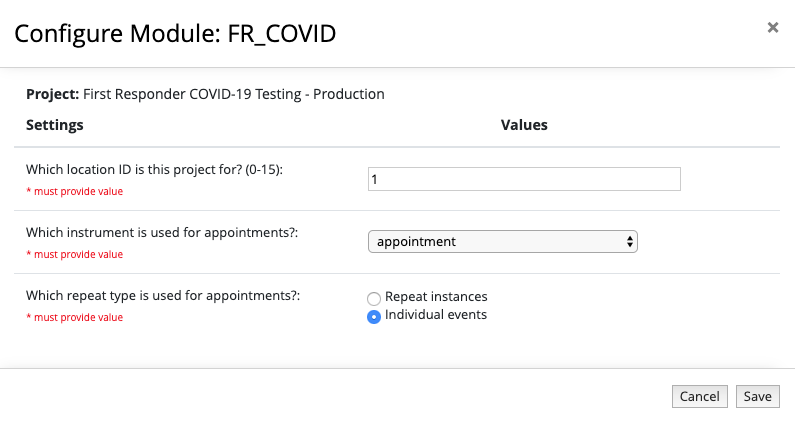
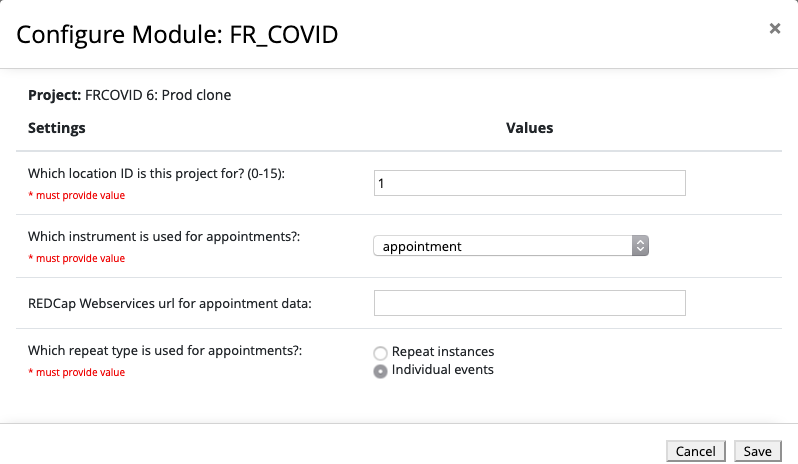
add documentation of appt avail table injection

diff --git a/README.md b/README.md
@@ -28,8 +28,8 @@ To configure and use this module, follow these steps:
 1. Configure the FR Covidata module identify to set `Which instrument is used for appointments?` In the included REDCap XML files, the form is named "Appointments".
 1. Configure the FR Covidata module to indicate which repeat type is used for repeats: _Repeating instances_ or _Individual Events_. In the included REDCap XML files, _events_ are used.
 ![](images/module_configuration_for_fr_covid_module.png)
-1. Use a MySQL client to load sites data from [`redcap_entity_test_site_data.sql`](example/redcap_entity_test_site_data.sql). Alternatively, use the `Define Sites` page of this module to enter the data. Be cautious as some portions of the interface of this module have very few guard rails. I.e., your data entry will not be checked. E.g., tiems must be entered in a 4-digit, 24-hour clock format such that 7 a.m. is 0700. The leading zero is critical. The development schedule has not allowed the addition of these tests, nor does it allow for much documentation. As such, the authors advise you to _use the example configuration_ as a starting point.
-1. Adjust the project_ids referenced on those just-loaded sites by editing and running a copy of [`redcap_entity_test_site_update.sql`](example/redcap_entity_test_site_update.sql)
+1. Use a MySQL client to load sites data from [`redcap_entity_test_site_data.sql`](example/redcap_entity_test_site_data.sql). Alternatively, use the `Define Sites` page of this module to enter the data. Be cautious as some portions of the interface of this module have very few guard rails. I.e., your data entry will not be checked. E.g., items must be entered in a 4-digit, 24-hour clock format such that 7 a.m. is 0700. The leading zero is critical. The development schedule has not allowed the addition of these tests, nor does it allow for much documentation. As such, the authors advise you to _use the example configuration_ as a starting point.
+1. Adjust the `project_id`s referenced on those just-loaded sites by editing and running a copy of [`redcap_entity_test_site_update.sql`](example/redcap_entity_test_site_update.sql)
 1. Access `Define Sites` to make any needed changes to the site definitions.
 1. Generate the initial appointment blocks by accessing `Define Sites` and selecting the sites of interest and clicking `Manually generate new appointments`
 ![](images/define_sites.png)
@@ -69,6 +69,32 @@ The module will define a cron job that runs daily to assure _appointment\_horizo
 
 As of release 0.6.0, the most precise way to make appointment blocks is to set _appointment\_horizon_ days to zero and set _start\_date_ to the precise date for which you want to make appointments. Select the sites that need new appointment blocks and click `Manually generate new appointments`. Repeat this process for each site date that needs new appointment blocks.
 
+## Showing Appointment Availability
+
+A table showing the current number of available appointments can be shown on any survey page after a few steps. Some SQL knowledge is required.  
+![Appointment availabilty table example](images/appointment_table.png)
+1. Create a query with [REDCap Webservices](https://github.com/ctsit/redcap_webservices) to deliver the data you wish to display.  
+    example:
+    ```sql
+    CONCAT(site_long_name, ' (', site_short_name, ')') AS location,
+        ts.testing_type,
+        COUNT(IF(fra.record_id IS NULL, 1, NULL)) AS available
+            FROM redcap_entity_fr_appointment AS fra
+            INNER join redcap_entity_test_site AS ts ON (fra.site = ts.id)
+            WHERE ts.project_id = [project-id]
+            AND ( fra.appointment_block > UNIX_TIMESTAMP( DATE( NOW() + INTERVAL IF(HOUR(NOW()) >= 16, 2, 1) DAY ) ) )
+            GROUP BY site
+    ```
+1. In the Project Level configuration, set the appropriate URL in for **REDCap Webservices url for appointment data** (remember to fill in variables such as `project_id` in the parameters if needed)
+1. Add a descriptive text field to the REDCap survey on any instrument page with the `field_label` containing HTML to create a table with id `appointment_table`:  
+    example:  
+    ```html
+    <table id="appointment_table" class="table table-borderless table-responsive"></table>
+    ```
+
+The table will appear in the descriptive field you set. Rows where any value is `0` will be highlighted in orange.
+
+Further styling may be done with the [REDCap CSS Injector](https://github.com/ctsit/redcap_css_injector) module.
 
 ## Using test data
 
